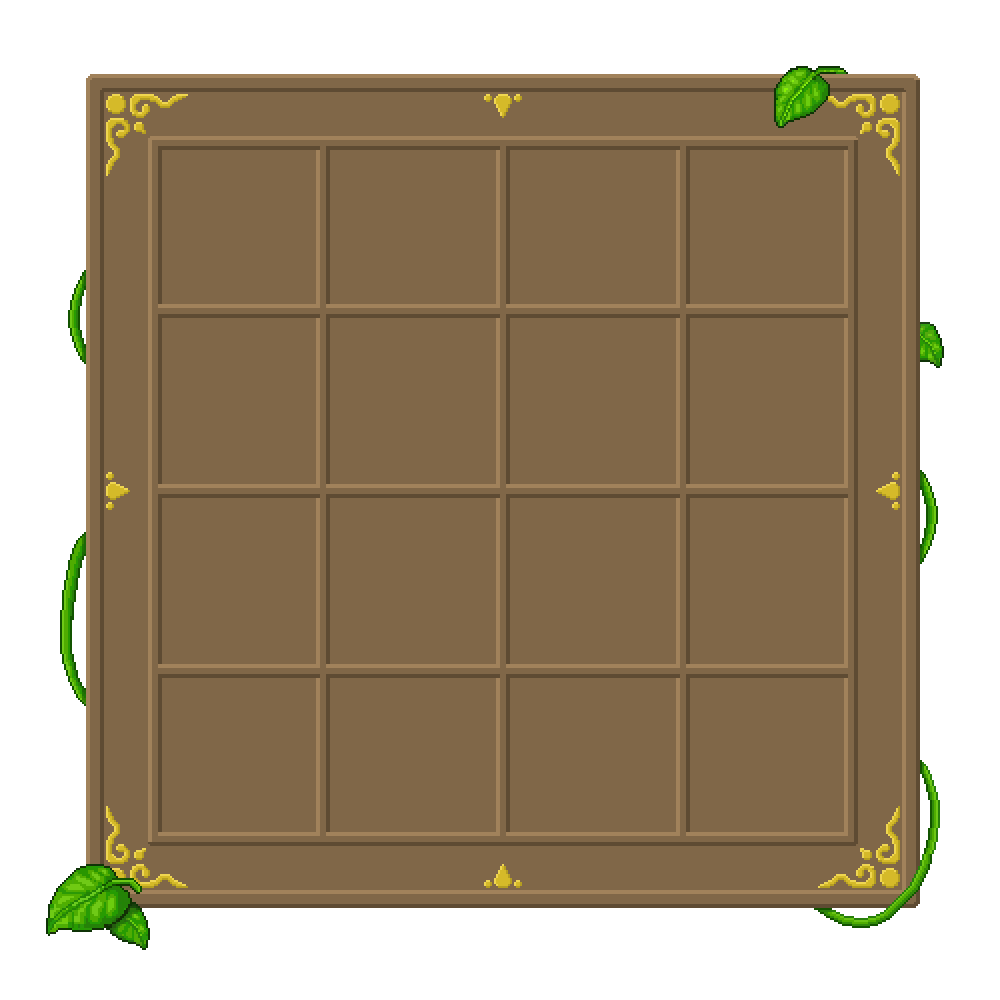
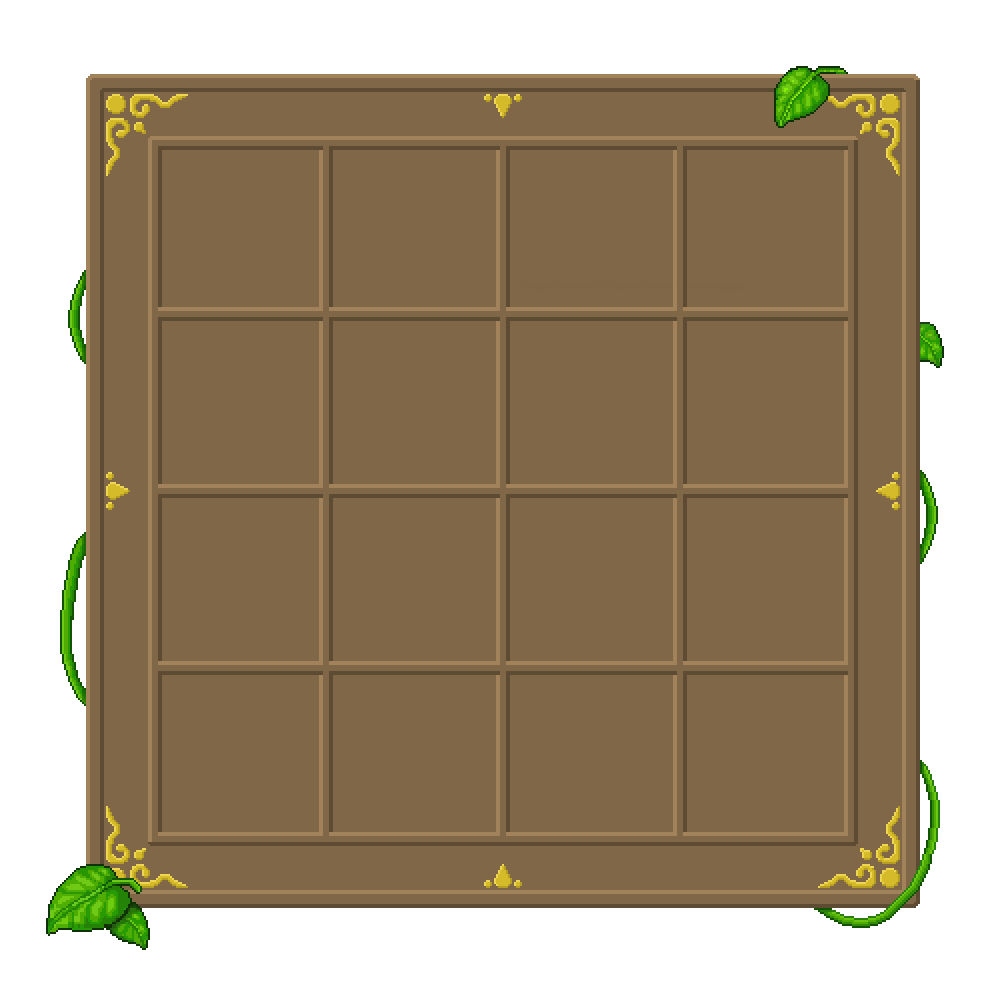
cambio imagenes

Changed region(s): [[0.155, 0.155, 0.868, 0.837]]

diff --git a/Npc.py b/Npc.py
@@ -11,7 +11,7 @@ class Npc:
         self.frame_width = w         # Anchura de la imagen
         self.frame_height = h       # Altura de la imagen
         self.frame_counter = FPSPRITE # Nº de frames por imagen
-        self.trayectoria = [True,False,False,False]
+        self.trayectoria = [True,False,False,False] #derecha,abajo,izquierda,arriba
         self.x=x
         self.y=y
 
@@ -24,7 +24,7 @@ class Npc:
 
         if self.trayectoria[0]:
             self.image = self.spriteSheet.subsurface((self.current_frame * self.frame_width,
-                                                      3*self.frame_height, # fila 3,
+                                                      6*self.frame_height, # fila 6,
                                                       self.frame_width, self.frame_height))
         if self.trayectoria[1]:
             self.image = self.spriteSheet.subsurface((self.current_frame * self.frame_width,
@@ -32,11 +32,11 @@ class Npc:
                                                       self.frame_width, self.frame_height))
         if self.trayectoria[2]:
             self.image = self.spriteSheet.subsurface((self.current_frame * self.frame_width,
-                                                      1*self.frame_height, # fila 1,
+                                                      2*self.frame_height, # fila 1,
                                                       self.frame_width, self.frame_height))
         if self.trayectoria[3]:
             self.image = self.spriteSheet.subsurface((self.current_frame * self.frame_width,
-                                                      2*self.frame_height, # fila 2,
+                                                      4*self.frame_height, # fila 2,
                                                       self.frame_width, self.frame_height))
 
     def move(self, offset, mapa, pj):

diff --git a/text.py b/text.py
@@ -59,9 +59,10 @@ class Text:
         self.inventarioImage = pygame.transform.scale(self.inventarioImage, (ventana[0]+60, ventana[1]+60))
         self.inventarioRect=self.inventarioImage.get_rect()
         self.inventarioRect.topleft=(-40,-30)
-        self.selecInventario=pygame.image.load("imagenes/menus/tri.png").convert_alpha()
-        self.selecInventario = pygame.transform.scale(self.selecInventario, (int(self.inventarioRect.width/16),int(self.inventarioRect.height/16)))
-        firstpos=(self.inventarioRect.topleft[0]+240,self.inventarioRect.topleft[1]+180)
+        self.selecInventario=pygame.image.load("imagenes/menus/square.png").convert_alpha()
+        self.selecInventario = pygame.transform.scale(self.selecInventario, (int(self.inventarioRect.width/7),int(self.inventarioRect.height/7)))
+        firstpos=(self.inventarioRect.topleft[0]+215,self.inventarioRect.topleft[1]+150)
+        print(firstpos)
         self.posInventario=[]
         for i in range(4):
             self.posInventario.append([])
@@ -74,9 +75,9 @@ class Text:
                 rect=self.selecInventario.get_rect()
                 rect.topleft=(firstpos[0]+width,firstpos[1]+high)
                 self.posInventario[layer].append(rect)
-                width+=220
+                width+=219
             layer+=1
-            high+=180
+            high+=169
             width=0
         self.objetosInventario=pj.objects
         self.description=False

diff --git a/Pantalla1.py b/Pantalla1.py
@@ -24,7 +24,7 @@ class Pantalla1(Scene):
             Npc("imagenes/personajes/Tapa_sheet.png",1200, 600, 68, 77)
         ]
         self.objetos=[
-            Objeto("imagenes/objetos/Flute.png",100,"Nadie puede resistirse al poder de la musica",700,700,60,60,200,150)
+            Objeto("imagenes/objetos/Flute.png",100,"Nadie puede resistirse al poder de la musica",700,700,60,60,175,120)
         ]
         self.text=Text(self.pj)
 
